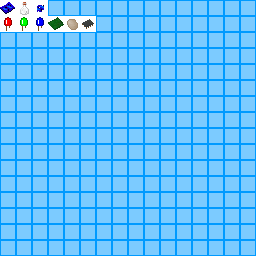
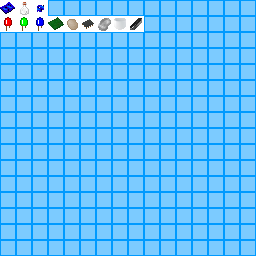
More Silicon proccessing. Just about done now.

Changed region(s): [[0.375, 0.0625, 0.5625, 0.125]]

diff --git a/anotherWorld/common/basicItems/BasicItemsCrafting.java b/anotherWorld/common/basicItems/BasicItemsCrafting.java
@@ -7,6 +7,9 @@ import anotherWorld.common.basicBlocks.BasicBlocks;
 import net.minecraft.block.Block;
 import net.minecraft.item.Item;
 import net.minecraft.item.ItemStack;
+import net.minecraft.item.crafting.CraftingManager;
+import net.minecraftforge.liquids.LiquidStack;
+import net.minecraftforge.oredict.ShapedOreRecipe;
 
 
 
@@ -21,10 +24,33 @@ public class BasicItemsCrafting {
 		addMetGradeSiliconRecipe();
 		addBlueprintRecipe();
 		addGlueRecipe();
+		addQuartzCrucibleRecipe();
+		addSiliconBouleRecipe();
+		addSiliconChipRecipe();
 	}
 	
 	
+	public static void addSiliconChipRecipe() {
+		//Using sand until 1.5 adds quartz
+		CraftingManager.getInstance().getRecipeList().add(new ShapedOreRecipe(new ItemStack(BasicItems.SiliconChip, 3), true, new Object[]{
+                "CWC", " F ", "CWC",
+                'C', "ingotCopper", 'W', BasicItems.SiliconSlice, 'F', Items.getItem("carbonFiber")    }));
+		
+	}
 	
+	public static void addSiliconBouleRecipe() {
+		CraftingManagers.transposerManager.addFillRecipe(200, new ItemStack(BasicItems.QuartzCrucible, 1), new ItemStack(BasicItems.SiliconBoule, 1), new LiquidStack(BasicBlocks.TriCSStill, 4000), false, false);
+	}
+	
+	
+	public static void addQuartzCrucibleRecipe() {
+		//Using sand until 1.5 adds quartz
+		GameRegistry.addRecipe(new ItemStack(BasicItems.QuartzCrucible, 1), new Object[]{
+			"Q Q", "Q Q", " Q ", 
+			'Q', Block.sand
+		});
+		
+	}
 	public static void addGlueRecipe(){
 		GameRegistry.addRecipe(new ItemStack(BasicItems.Glue, 1), new Object[]{
 			"SRS", "RGR", "SRS", 

diff --git a/anotherWorld/common/machines/BlockSeparator.java b/anotherWorld/common/machines/BlockSeparator.java
@@ -1,0 +1,58 @@
+package anotherWorld.common.machines;
+
+import anotherWorld.common.AnotherWorld;
+import anotherWorld.common.basicBlocks.BasicBlocks;
+import cpw.mods.fml.common.registry.GameRegistry;
+import cpw.mods.fml.common.registry.LanguageRegistry;
+import net.minecraft.block.Block;
+import net.minecraft.block.BlockContainer;
+import net.minecraft.block.material.Material;
+import net.minecraft.tileentity.TileEntity;
+import net.minecraft.world.World;
+
+public class BlockSeparator extends BlockContainer {
+
+	protected BlockSeparator(int id, int idInTexture, Material mat) {
+		super(id, idInTexture, mat);
+		GameRegistry.registerBlock(this, "test");
+		LanguageRegistry.addName(this, "test");
+		this.setBlockName(Machines.testName);
+        this.setCreativeTab(AnotherWorld.TabAW);
+        
+        this.setHardness(4.0F);
+        this.setStepSound(Block.soundGlassFootstep);
+
+	}
+	
+	public boolean isOpaqueCube()
+	{
+		return false;
+	}
+	
+	public boolean renderAsNormalBlock()
+	{
+		return false;
+	}
+	
+	public int getRenderType()
+	{
+		return -1;
+	}
+
+
+	@Override
+	public TileEntity createNewTileEntity(World var1) {
+		return new TileEntitySeparator();
+	}
+	public TileEntity getBlockEntity()
+	{
+		try{
+			return (TileEntity)TileEntitySeparator.class.newInstance();
+		}
+		catch(Exception exception){
+			throw new RuntimeException(exception);
+		}
+	}
+
+
+}

diff --git a/anotherWorld/common/basicItems/BasicItems.java b/anotherWorld/common/basicItems/BasicItems.java
@@ -42,6 +42,21 @@ public class BasicItems {
 	public static String ItemSiliconChipName = "Silicon Chip";
 	public static int ItemSiliconChipID = 8009;
 	
+	//Quartz Crucible
+	public static Item QuartzCrucible;
+	public static String ItemQuartzCrucibleName = "Quartz Crucible";
+	public static int ItemQuartzCrucibleID = 8010;
+		
+	//Silicon Boule
+	public static Item SiliconBoule;
+	public static String ItemSiliconBouleName = "Silicon Boule";
+	public static int ItemSiliconBouleID = 8011;
+	
+	//Silicon Slice
+	public static Item SiliconSlice;
+	public static String ItemSiliconSliceName = "Silicon Wafer";
+	public static int ItemSiliconSliceID = 8012;
+	
 	
 	public static void addItems() {
 		Glue = new ItemGlue(ItemGlueID);
@@ -53,6 +68,9 @@ public class BasicItems {
 		BlueLED = new ItemBlueLED(ItemBlueLEDID);
 		SiliconSlag = new ItemSiliconSlag(ItemSiliconSlagID);
 		MetGradeSilicon = new ItemMetGradeSilicon(ItemMetGradeSiliconID);
+		QuartzCrucible = new ItemQuartzCrucible(ItemQuartzCrucibleID);
+		SiliconBoule = new ItemSiliconBoule(ItemSiliconBouleID);
+		SiliconSlice = new ItemSiliconSlice(ItemSiliconSliceID);
 	}
 	
 }

diff --git a/anotherWorld/client/ClientProxyAnotherWorld.java b/anotherWorld/client/ClientProxyAnotherWorld.java
@@ -1,10 +1,16 @@
 package anotherWorld.client;
 
+import buildcraft.core.render.RenderingEntityBlocks;
 import cpw.mods.fml.client.FMLClientHandler;
+import cpw.mods.fml.client.registry.ClientRegistry;
 import cpw.mods.fml.client.registry.RenderingRegistry;
+import net.minecraft.block.Block;
 import net.minecraftforge.client.MinecraftForgeClient;
 import anotherWorld.common.AnotherWorld;
 import anotherWorld.common.CommonProxyAnotherWorld;
+import anotherWorld.common.machines.Machines;
+import anotherWorld.common.machines.TileEntityRenderSeparator;
+import anotherWorld.common.machines.TileEntitySeparator;
 
 public class ClientProxyAnotherWorld extends CommonProxyAnotherWorld{
 	@Override
@@ -12,6 +18,5 @@ public class ClientProxyAnotherWorld extends CommonProxyAnotherWorld{
 		MinecraftForgeClient.preloadTexture(AnotherWorld.blockTex);
 		MinecraftForgeClient.preloadTexture(AnotherWorld.itemTex);
 		MinecraftForgeClient.preloadTexture(AnotherWorld.texDir + "advanced.png");
-	
-	}
+	}	
 }

diff --git a/anotherWorld/common/basicBlocks/BasicBlocksCrafting.java b/anotherWorld/common/basicBlocks/BasicBlocksCrafting.java
@@ -17,10 +17,10 @@ public class BasicBlocksCrafting {
 	
 	
 	public static void addCraftingEngineeringGlass() {
-		CraftingManagers.smelterManager.addRecipe(40, new ItemStack(Item.redstone, 4), new ItemStack(Block.glass, 4), new ItemStack(BasicBlocks.EngineeringGlass, 4), new ItemStack(BasicItems.SiliconSlag, 1), 5 , false);
+		CraftingManagers.smelterManager.addRecipe(40, new ItemStack(Item.redstone, 4), new ItemStack(Block.glass, 4), new ItemStack(BasicBlocks.EngineeringGlass, 4), new ItemStack(BasicItems.SiliconSlag, 1), 2 , false);
 	}
 	public static void addCraftingTriCS() {
-		CraftingManagers.crucibleManager.addRecipe(5000, new ItemStack(BasicItems.MetGradeSilicon, 1) , new LiquidStack(BasicBlocks.TriCSStill, 500), false);
+		CraftingManagers.crucibleManager.addRecipe(1000, new ItemStack(BasicItems.MetGradeSilicon, 1) , new LiquidStack(BasicBlocks.TriCSStill, 500), false);
 	}
  
 }

diff --git a/anotherWorld/common/onLoad.java b/anotherWorld/common/onLoad.java
@@ -6,6 +6,7 @@ import anotherWorld.common.basicBlocks.BasicBlocks;
 import anotherWorld.common.basicBlocks.BasicBlocksCrafting;
 import anotherWorld.common.basicItems.BasicItems;
 import anotherWorld.common.basicItems.BasicItemsCrafting;
+import anotherWorld.common.machines.Machines;
 import anotherWorld.common.village.TradeHandlerVillagerAdvanced;
 
 
@@ -15,6 +16,7 @@ public class onLoad{
 	public static void onLoading() {
 		BasicItems.addItems();
 		BasicBlocks.addItems();
+		Machines.addItems();
 		VillagerInit();
 	}
 

diff --git a/anotherWorld/common/machines/Machines.java b/anotherWorld/common/machines/Machines.java
@@ -1,0 +1,16 @@
+package anotherWorld.common.machines;
+
+import anotherWorld.common.basicBlocks.BlockEngineeringGlass;
+import net.minecraft.block.Block;
+import net.minecraft.block.material.Material;
+
+public class Machines {
+	public static Block test;
+	public static String testName = "Engineering Glass";
+	public static int testID = 3005;
+	
+	public static void addItems() {
+	test = new BlockSeparator(testID, 0, Material.glass);
+	}
+	
+}

diff --git a/anotherWorld/common/basicItems/ItemMetGradeSilicon.java b/anotherWorld/common/basicItems/ItemMetGradeSilicon.java
@@ -11,6 +11,6 @@ import net.minecraft.item.ItemStack;
 public class ItemMetGradeSilicon extends BasicItem{
 	public static String name = "Metallurgical silicon";
 	public ItemMetGradeSilicon(int id) {
-		super(id, BasicItems.ItemMetGradeSiliconName, 2);
+		super(id, BasicItems.ItemMetGradeSiliconName, 22);
 	}
 }

diff --git a/anotherWorld/common/basicItems/ItemQuartzCrucible.java b/anotherWorld/common/basicItems/ItemQuartzCrucible.java
@@ -1,0 +1,9 @@
+package anotherWorld.common.basicItems;
+
+public class ItemQuartzCrucible extends BasicItem {
+
+	public ItemQuartzCrucible(int id) {
+		super(id, BasicItems.ItemQuartzCrucibleName, 23);
+	}
+
+}

diff --git a/anotherWorld/common/basicItems/ItemSiliconBoule.java b/anotherWorld/common/basicItems/ItemSiliconBoule.java
@@ -1,0 +1,9 @@
+package anotherWorld.common.basicItems;
+
+public class ItemSiliconBoule extends BasicItem {
+
+	public ItemSiliconBoule(int id) {
+		super(id, BasicItems.ItemSiliconBouleName, 24);
+	}
+
+}

diff --git a/anotherWorld/common/basicItems/ItemSiliconSlice.java b/anotherWorld/common/basicItems/ItemSiliconSlice.java
@@ -1,0 +1,9 @@
+package anotherWorld.common.basicItems;
+
+public class ItemSiliconSlice extends BasicItem {
+
+	public ItemSiliconSlice(int id) {
+		super(id, BasicItems.ItemSiliconSliceName, 24);
+	}
+
+}

diff --git a/anotherWorld/common/machines/TileEntitySeparator.java b/anotherWorld/common/machines/TileEntitySeparator.java
@@ -1,0 +1,7 @@
+package anotherWorld.common.machines;
+
+import net.minecraft.tileentity.TileEntity;
+
+public class TileEntitySeparator extends TileEntity {
+
+}
